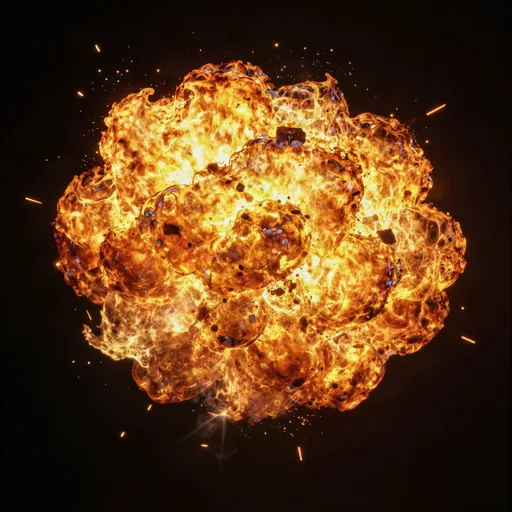
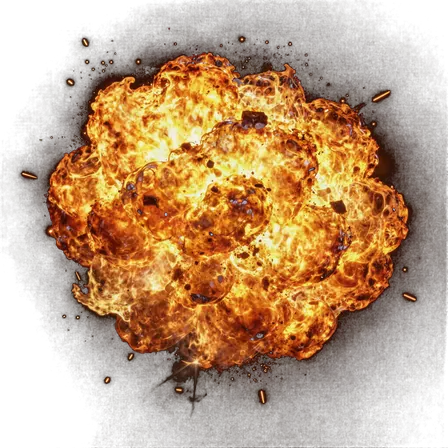
Crash rocket: real alpha cut-out instead of a blend-mode trick
The rocket showed a square glow box around it. Two causes, same root:

mix-blend-mode: screen only *looks* transparent — the element is still an
opaque rectangle. The plate was also not perfectly black, so the near-black
border lightened the sky into a visible square. And drop-shadow draws around
the element's rendered box, which for an opaque background-image is a hard
rectangle, so the warm glow was a glowing square rather than a glowing rocket.

tools/cutout.py now keys the black plate into a genuine alpha channel:
- alpha from max(R,G,B) rather than luminance, so saturated orange exhaust
  stays fully opaque where a luma key would eat it
- soft ramp between two thresholds plus a light feather so edges are not
  aliased
- trimmed to the alpha bounding box so the element hugs the artwork

Rocket and explosion re-cut with alpha; mix-blend-mode dropped from both. The
glow now follows the silhouette, and the sprites are bigger (132px / 240px)
since they no longer need slack around the plate. 80 KB and 94 KB.

diff --git a/css/reels.css b/css/reels.css
@@ -77,17 +77,18 @@
   opacity:.75}
 .crash-sky.drift{animation:skyDrift 26s linear infinite alternate}
 @keyframes skyDrift{to{transform:scale(1.12) translateY(-4%)}}
-.rocket{position:absolute;z-index:3;width:104px;height:104px;
+/* The sprite carries a real alpha channel (tools/cutout.py), so no blend-mode
+   trick is needed and the glow follows the rocket instead of its bounding box. */
+.rocket{position:absolute;z-index:3;width:132px;height:132px;
   left:8%;bottom:8%;pointer-events:none;
   background-size:contain;background-repeat:no-repeat;background-position:center;
-  mix-blend-mode:screen;                 /* knocks the black plate out */
-  filter:drop-shadow(0 0 14px rgba(255,140,60,.5));
+  filter:drop-shadow(0 0 10px rgba(255,150,70,.45));
   transition:left .12s linear,bottom .12s linear,transform .2s var(--ease)}
 .crash-box.busted .rocket{animation:rocketFall .6s ease-in forwards}
 @keyframes rocketFall{to{transform:rotate(130deg) translateY(160px);opacity:0}}
-.boom{position:absolute;z-index:4;width:220px;height:220px;pointer-events:none;
+.boom{position:absolute;z-index:4;width:240px;height:240px;pointer-events:none;
   background-size:contain;background-repeat:no-repeat;background-position:center;
-  mix-blend-mode:screen;transform:translate(-50%,-50%) scale(.3);opacity:0}
+  transform:translate(-50%,-50%) scale(.3);opacity:0}
 .boom.go{animation:boomPop .7s ease-out forwards}
 @keyframes boomPop{
   0%{opacity:0;transform:translate(-50%,-50%) scale(.3)}

diff --git a/tools/cutout.py b/tools/cutout.py
@@ -1,0 +1,71 @@
+"""Turn a subject-on-black render into a proper cut-out with an alpha channel.
+
+`mix-blend-mode: screen` only *looks* transparent: the element is still an
+opaque rectangle, so any filter or glow draws around the box rather than the
+subject — which is exactly the square halo around the crash rocket.
+
+This keys the black plate out into real alpha, feathers the edge, trims to the
+subject's bounding box, and writes WebP with alpha. The element box then hugs
+the artwork and normal CSS shadows behave.
+
+Usage:
+    python tools/cutout.py <url> <out-name> [low] [high]
+"""
+import sys
+import urllib.request
+from io import BytesIO
+from pathlib import Path
+
+from PIL import Image, ImageFilter
+
+ART = Path("art")
+
+
+def fetch(url: str) -> Image.Image:
+    req = urllib.request.Request(url, headers={"User-Agent": "nova-casino-art/1.0"})
+    with urllib.request.urlopen(req, timeout=180) as r:
+        return Image.open(BytesIO(r.read())).convert("RGB")
+
+
+def cutout(img: Image.Image, low: int = 14, high: int = 58) -> Image.Image:
+    """Alpha from channel maximum: black plate -> 0, lit subject -> 255.
+
+    Using max(R,G,B) rather than luminance keeps saturated flame colours fully
+    opaque; a luminance key would eat the deep orange in the exhaust.
+    """
+    r, g, b = img.split()
+    value = ImageChops_max(ImageChops_max(r, g), b)
+
+    span = max(1, high - low)
+    alpha = value.point(lambda v: 0 if v <= low else (255 if v >= high
+                                                     else int((v - low) * 255 / span)))
+    alpha = alpha.filter(ImageFilter.GaussianBlur(0.6))     # feather the edge
+
+    out = img.convert("RGBA")
+    out.putalpha(alpha)
+
+    bbox = alpha.getbbox()
+    if bbox:
+        out = out.crop(bbox)
+    return out
+
+
+def ImageChops_max(a: Image.Image, b: Image.Image) -> Image.Image:
+    from PIL import ImageChops
+    return ImageChops.lighter(a, b)
+
+
+def main() -> None:
+    url, name = sys.argv[1], sys.argv[2]
+    low = int(sys.argv[3]) if len(sys.argv) > 3 else 14
+    high = int(sys.argv[4]) if len(sys.argv) > 4 else 58
+
+    img = cutout(fetch(url), low, high)
+    img.thumbnail((448, 448), Image.LANCZOS)
+    dest = ART / f"{name}.webp"
+    img.save(dest, "WEBP", quality=80, method=6)
+    print(f"{name}: {img.size[0]}x{img.size[1]}  {dest.stat().st_size // 1024} KB  (alpha)")
+
+
+if __name__ == "__main__":
+    main()
